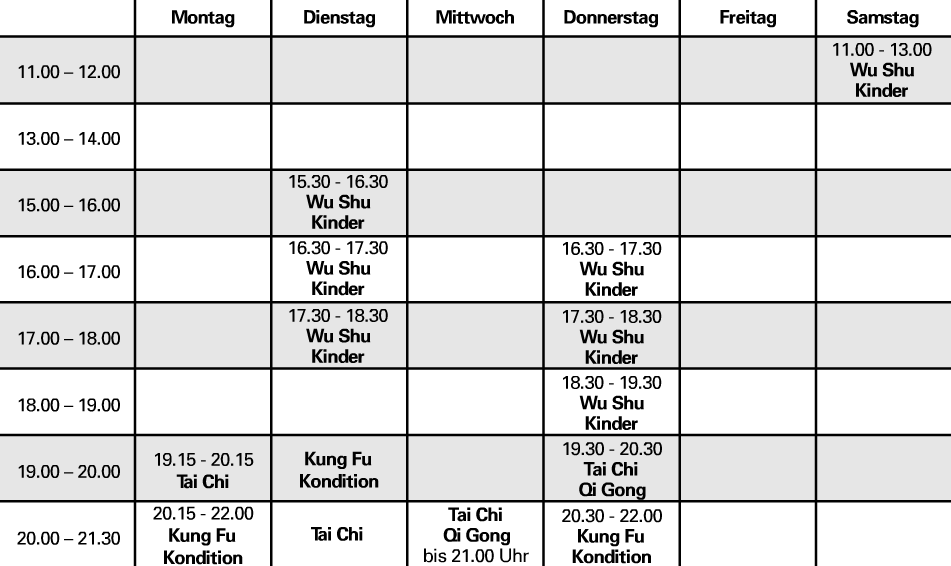
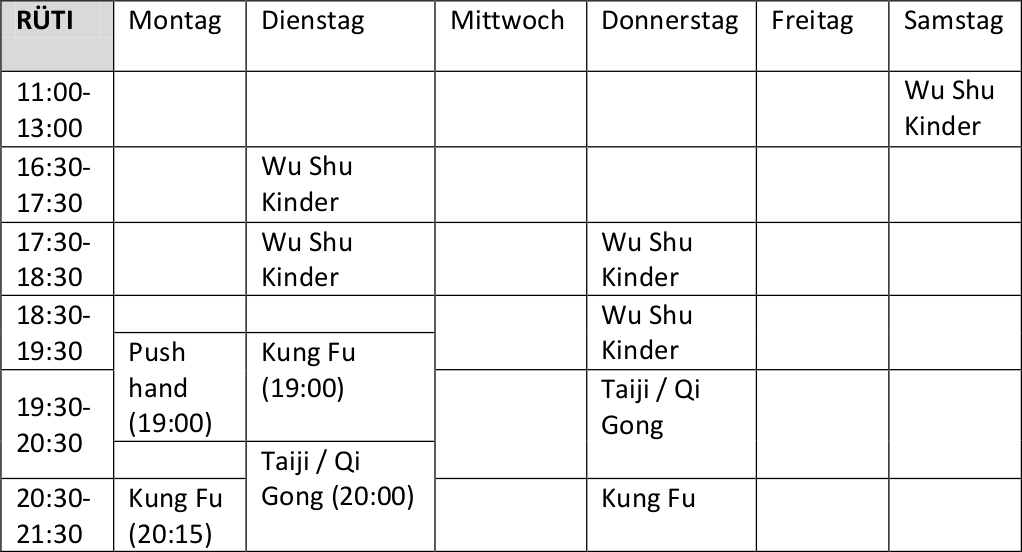
stundenpläne ersetzt und hittnau hinzugefügt gemäss mail von melanie @ Sunday, January 19, 2014 8:10 PM

diff --git a/infos-kontakt/index.md b/infos-kontakt/index.md
@@ -9,6 +9,8 @@ title: Infos / Kontakt
 
 <a href="/infos-kontakt/tagelswangen/" class="button-contact-place">Tagelswangen</a>
 
+<a href="/infos-kontakt/hittnau/" class="button-contact-place">Hittnau</a>
+
 <a href="/infos-kontakt/preise/" class="button-contact-info">Preise</a>
 
 <a href="/infos-kontakt/kontakt-anmeldung/" class="button-contact-info">Kontakt / Anmeldung</a>

diff --git a/infos-kontakt/hittnau/index.md b/infos-kontakt/hittnau/index.md
@@ -1,0 +1,12 @@
+---
+layout: default
+title: Wu Shu Center Hittnau
+---
+// TODO: richtige adresse angeben!
+<a href="http://map.search.ch/rueti/joweid-zentrum-4" target="_blank">
+<strong>Wu Shu Center Rüti</strong>, Joweidezentrum 4, Rüti
+</a>
+
+### Stundenplan
+
+<img src="/images/stundenplaene/stundenplan-hittnau.png" alt="Stundenplan Hittnau">
